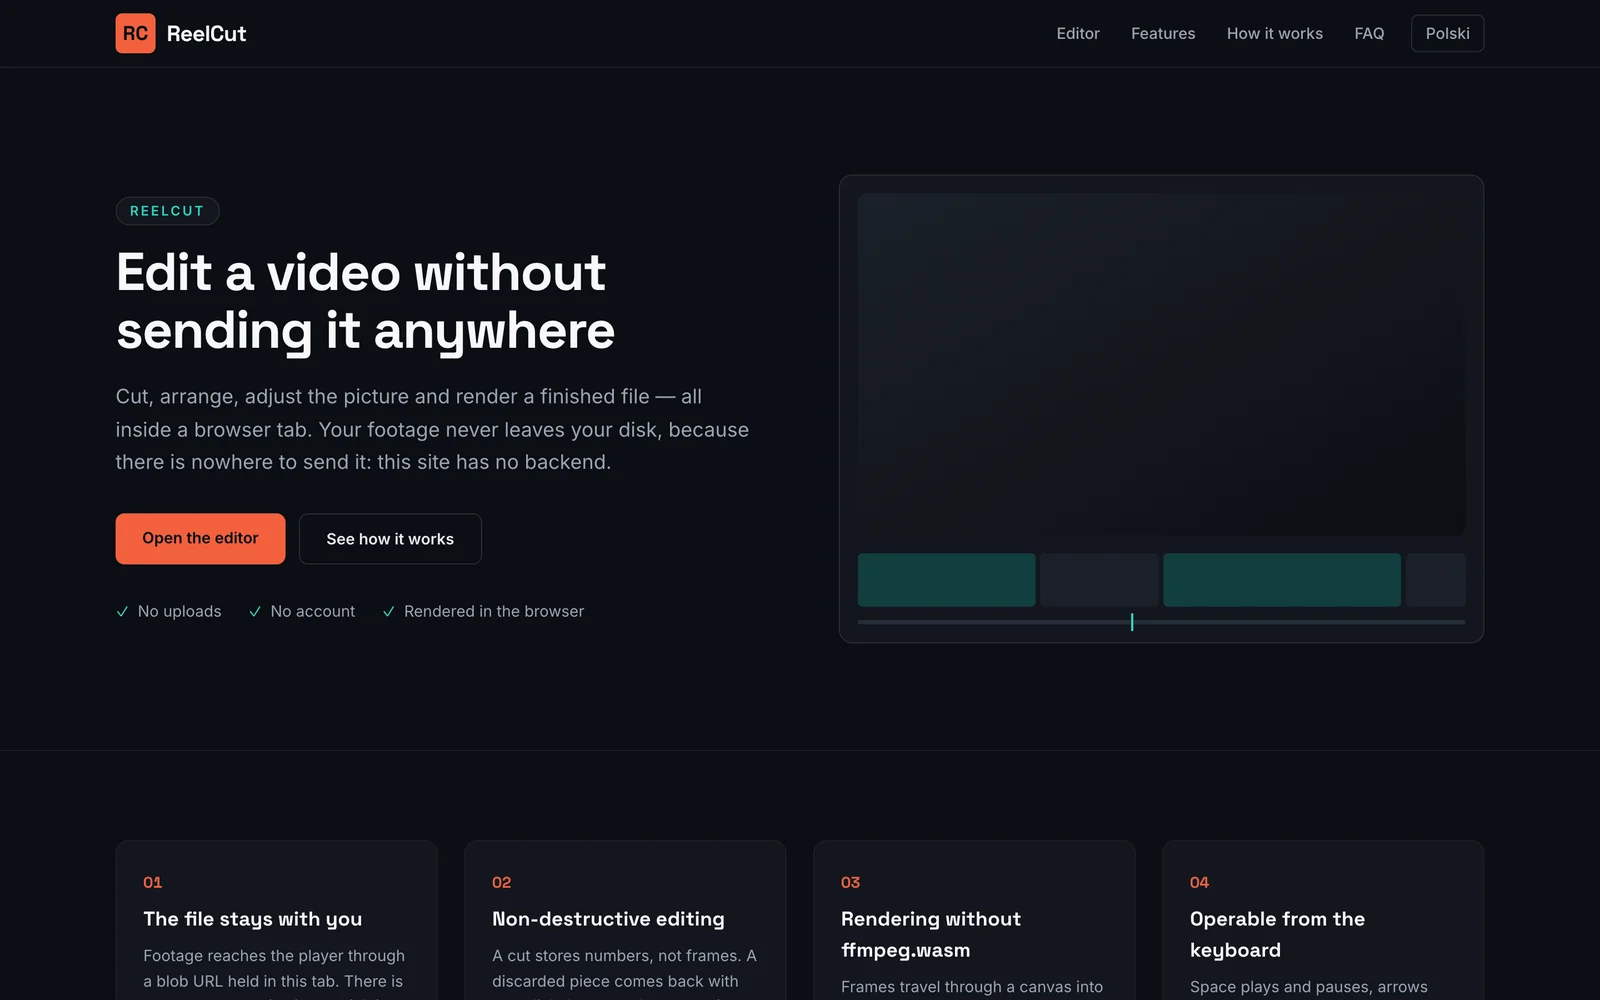
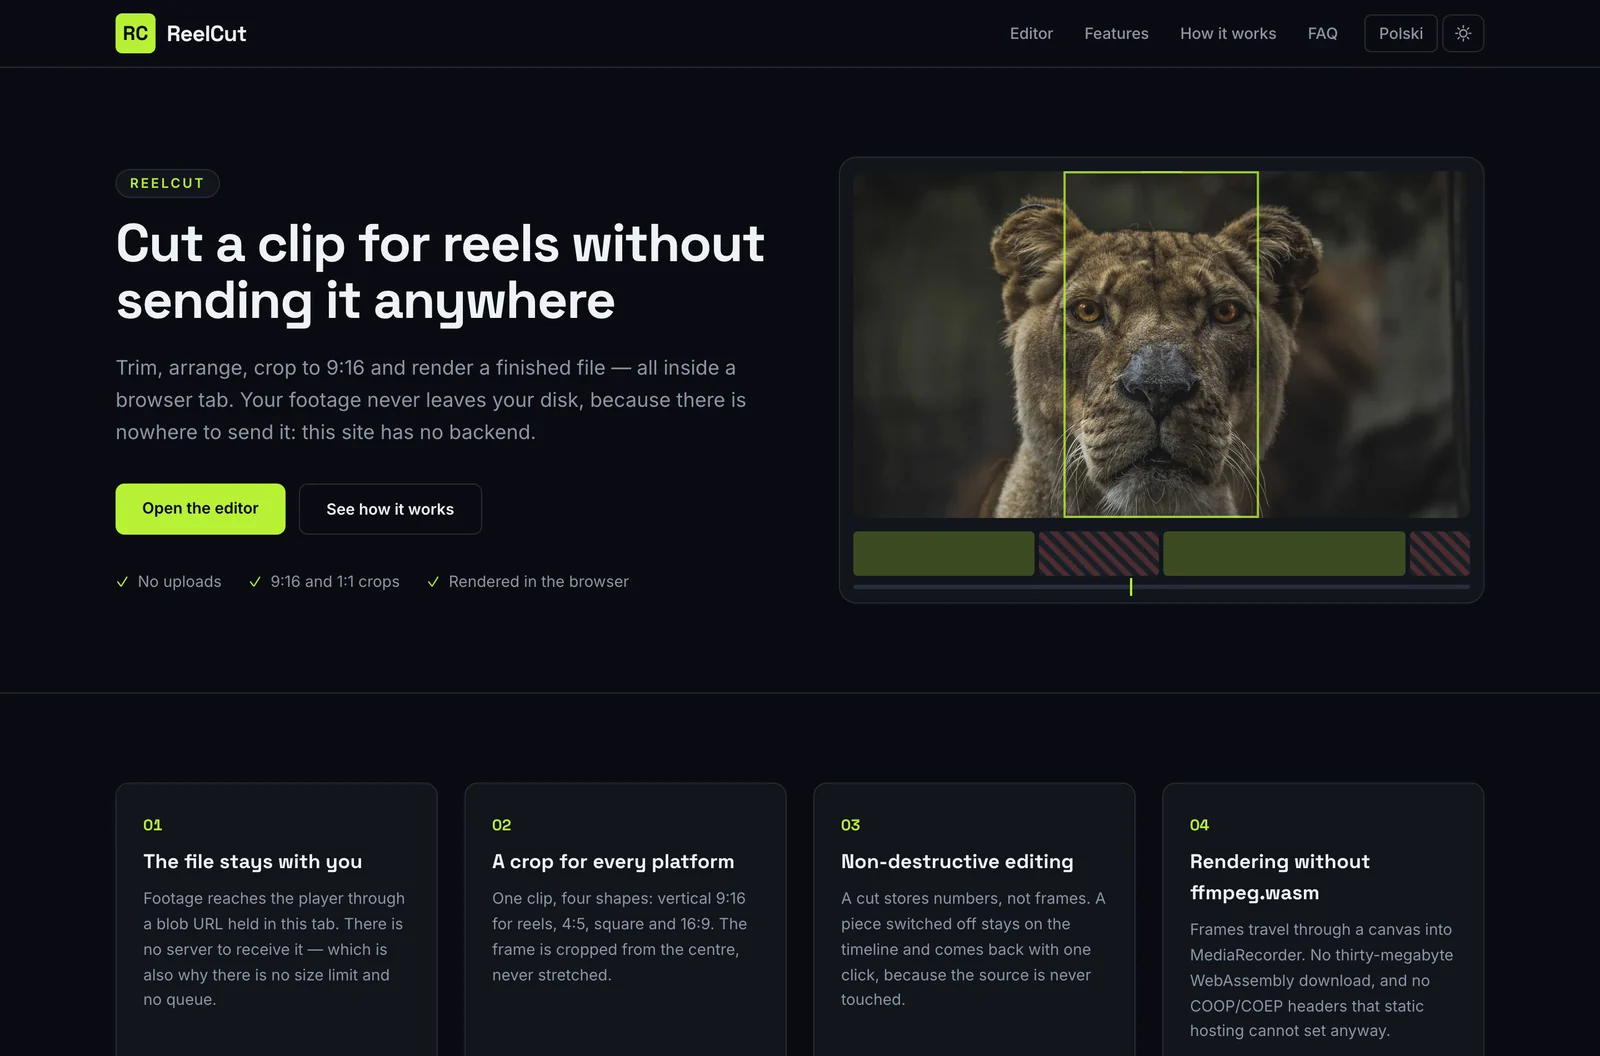
docs: document the crop, the themes and the renamed modules

diff --git a/README.md b/README.md
@@ -1,8 +1,8 @@
 # ReelCut
 
-> ✂ **The footage never leaves the tab** — trim, arrange, adjust and render a video without uploading it anywhere
+> ✂ **The footage never leaves the tab** — trim, crop to 9:16 and render a reel without uploading it anywhere
 
-**ReelCut** is a video editor that runs inside a browser tab. Load a clip from disk, split it on the timeline, switch off the parts you do not want, correct the picture and sound, and render a finished file you can download straight away.
+**ReelCut** is a video editor that runs inside a browser tab. Load a clip from disk, split it on the timeline, switch off the parts you do not want, crop it to the shape the platform wants, correct picture and sound, and render a finished file you can download straight away.
 
 Nothing is uploaded and nothing is stored. The site is prerendered to files and served by GitHub Pages; the footage reaches the player through a blob URL that exists only in your tab.
 
@@ -23,7 +23,10 @@ Nothing is uploaded and nothing is stored. The site is prerendered to files and 
 - **Nothing is uploaded** — the clip is attached through a blob URL held in the tab. There is no server to receive it, which is also why there is no size limit and no queue.
 - **Non-destructive cutting** — a split stores numbers, not frames. A piece switched off stays on the timeline and comes back with one click.
 - **A render that actually produces a file** — frames go through a canvas into `MediaRecorder` and come out as a downloadable WebM, audio included.
-- **Picture and sound correction** — brightness, contrast, saturation, playback speed, volume and a caption at the top or bottom of the frame, all previewed live.
+- **A crop for every platform** — vertical 9:16 for reels and shorts, 4:5, square or wide, at 480p, 720p or 1080p. The frame is cropped from the centre, never stretched, and the preview is framed to the exact shape the render produces.
+- **Picture and sound correction** — brightness, contrast, saturation, playback speed, volume and a caption in three styles (bar, outline, shadow) at the top or bottom of the frame, all previewed live.
+- **Light and dark themes** — dark by default, because footage is judged against dark surroundings; applied before the first paint so the page never flashes the wrong one.
+- **A zoomable timeline** — widen the rail to trim precisely on a long clip, and reorder pieces from the keyboard.
 - **Keyboard transport** — space plays and pauses, arrows step one frame, and the shortcuts stand down while focus is in a text field.
 - **Bilingual** — English at `/`, Polish at `/pl/`, with matching `hreflang` pairs and separate JSON-LD.
 
@@ -31,15 +34,17 @@ Nothing is uploaded and nothing is stored. The site is prerendered to files and 
 
 ## 🖼 Screenshots
 
-| The premise in one screen                                       | Loading footage                                                    |
+| The premise in one screen                                       | The same, in dark                                                  |
 | --------------------------------------------------------------- | -------------------------------------------------------------------- |
-| ![The ReelCut hero explaining that footage never leaves the tab](docs/screenshots/hero.webp) | ![The drop area waiting for a video file](docs/screenshots/wczytywanie.webp) |
+| ![The ReelCut hero explaining that footage never leaves the tab](docs/screenshots/hero.webp) | ![The hero with the 9:16 crop drawn over a frame](docs/screenshots/hero.webp) |
 
-| The editor: preview, timeline and correction panel                       | A finished render ready to download                            |
+| The editor: 9:16 crop, timeline and caption styles                       | A finished render ready to download                            |
 | -------------------------------------------------------------------------- | ----------------------------------------------------------------- |
-| ![The editor with a clip loaded, a caption on the frame and two timeline pieces](docs/screenshots/edytor.webp) | ![The render panel reporting a finished WebM file](docs/screenshots/render.webp) |
+| ![The editor with a clip cropped to 9:16, an outlined caption and two timeline pieces](docs/screenshots/editor.webp) | ![The render panel reporting a finished WebM file](docs/screenshots/render.webp) |
 
-![The timeline with one piece kept and one switched off](docs/screenshots/os-czasu.webp)
+| The same page in the light theme                                     |
+| ---------------------------------------------------------------------- |
+| ![The hero rendered in the light theme](docs/screenshots/hero-light.webp) |
 
 ---
 
@@ -49,7 +54,7 @@ The interesting constraint is that GitHub Pages cannot set response headers. Tha
 
 1. A `<canvas>` is sized to the source video and captured with `canvas.captureStream(30)`.
 2. The audio track is taken from the player's own stream — `captureStream()` in Chrome, `mozCaptureStream()` in Firefox — and added to the recording.
-3. `MediaRecorder` starts, and the render walks the kept pieces in order: seek, play, and draw each frame with `ctx.filter` carrying the same correction string the preview uses.
+3. `MediaRecorder` starts, and the render walks the kept pieces in order: seek, play, and draw each frame with `ctx.filter` carrying the same correction string the preview uses. When a crop is selected, `drawImage` takes a centre rectangle from the source rather than scaling it, so nothing is stretched.
 4. On the last piece the recorder stops and the chunks become a `Blob`.
 
 **The honest trade-off:** the frames genuinely have to pass through the player, so rendering runs in real time — a minute of footage takes about a minute. The interface says so before you start, rather than leaving you guessing at a stalled progress bar.
@@ -63,12 +68,14 @@ Output is WebM with VP9 or VP8, whichever the browser reports it can record.
 | Layer                            | Responsibility                                                                                     |
 | -------------------------------- | ---------------------------------------------------------------------------------------------------- |
 | `src/app`                        | Routing, per-language metadata, fonts, JSON-LD. Two prerendered routes: `/` and `/pl/`.               |
-| `src/components/Edytor.tsx`      | The session: the blob URL, timeline state, corrections, keyboard transport and the render lifecycle.   |
-| `src/components/OsCzasu.tsx`     | The timeline. Pieces are drawn proportional to their length; the playhead marks where a split lands.   |
-| `src/components/PanelKorekty.tsx` | Sliders and the caption, each announcing a human-readable value.                                     |
-| `src/components/eksport.ts`      | The render pipeline — canvas, `captureStream`, `MediaRecorder`, format negotiation and cancellation.  |
-| `src/components/model.ts`        | Types and the timeline maths: splitting, active pieces, montage length, time formatting.              |
-| `src/components/tresc.ts`        | Every string in both languages.                                                                       |
+| `src/components/Editor.tsx`      | The session: the blob URL, timeline state, corrections, keyboard transport and the render lifecycle.   |
+| `src/components/Timeline.tsx`    | The timeline. Pieces are drawn proportional to their length; the playhead marks where a split lands.   |
+| `src/components/FormatPanel.tsx` | Aspect ratio and resolution, with swatches drawn to the real shape.                                    |
+| `src/components/AdjustPanel.tsx` | Sliders and the caption, each announcing a human-readable value.                                       |
+| `src/components/render.ts`       | The render pipeline — canvas, centre crop, `captureStream`, `MediaRecorder`, cancellation.             |
+| `src/components/project.ts`      | Types and the maths: splitting, enabled pieces, edited length, output size and crop rectangle.         |
+| `src/components/ThemeToggle.tsx` | The light/dark switch and the script that applies the theme before the first paint.                    |
+| `src/components/content.ts`      | Every string in both languages.                                                                        |
 | `src/app/globals.css`            | Design tokens and the timeline slider skin.                                                           |
 
 ---
@@ -129,7 +136,9 @@ npm run verify     # typecheck + build, the same pair the CI runs
 
 ## 🎨 Design
 
-An editing room, not a document: a near-black base (`#0b0e13`) because footage is judged against dark surroundings, coral (`#f4603e`) reserved for cutting and anything destructive, and teal (`#2dd4bf`) used only for the playhead and confirmations. Display type is **Space Grotesk**, body text is **Inter**.
+A cutting room, not a document: a cold near-black base (`#0a0c11`) because footage is judged against dark surroundings, electric lime (`#b8f135`) for anything that acts, and a warm red (`#ff5c47`) reserved strictly for cuts and removal. Display type is **Space Grotesk**, body text is **Inter**.
+
+Both themes are declared as tokens, so components never hard-code a colour. The video stage is the deliberate exception — it stays black in either theme, because that is the only honest background for grading a picture.
 
 ---
 
@@ -156,12 +165,14 @@ ReelCut-Platform/
     │   ├── (en)/                  # English at /
     │   └── (pl)/pl/               # Polish at /pl/
     └── components/
-        ├── Edytor.tsx             # session state, transport, render lifecycle
-        ├── OsCzasu.tsx            # the timeline
-        ├── PanelKorekty.tsx       # picture and sound controls
-        ├── eksport.ts             # canvas → MediaRecorder render pipeline
-        ├── model.ts               # types and timeline maths
-        └── tresc.ts               # all copy, PL and EN
+        ├── Editor.tsx             # session state, transport, render lifecycle
+        ├── Timeline.tsx           # the zoomable timeline
+        ├── FormatPanel.tsx        # aspect ratio and resolution
+        ├── AdjustPanel.tsx        # picture, sound and caption controls
+        ├── ThemeToggle.tsx        # light/dark switch
+        ├── render.ts              # canvas → MediaRecorder render pipeline
+        ├── project.ts             # types, timeline maths, crop geometry
+        └── content.ts             # all copy, PL and EN
 ```
 
 ---
